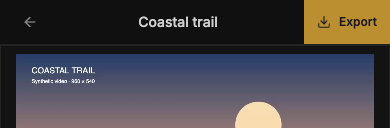
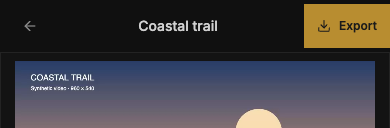
fix(frontend): restore spacing above the mobile editor preview

diff --git a/apps/frontend/src/components/editor/EditorLayout.tsx b/apps/frontend/src/components/editor/EditorLayout.tsx
@@ -61,10 +61,10 @@ export function EditorPreviewPane({
     <section
       data-editor-preview-stage
       className={cn(
-        "relative overflow-hidden border border-editor-border bg-editor-monitor",
+        "relative overflow-hidden border-editor-border bg-editor-monitor",
         variant === "desktop"
-          ? "flex min-h-0 flex-1 items-center justify-center p-2"
-          : "w-full flex-none",
+          ? "flex min-h-0 flex-1 items-center justify-center border p-2"
+          : "w-full flex-none border-x border-b",
         variant === "mobile" &&
           !cropEditing &&
           "max-h-[var(--editor-preview-height,46dvh)]",

diff --git a/apps/frontend/src/components/editor/EditorHeader.tsx b/apps/frontend/src/components/editor/EditorHeader.tsx
@@ -58,7 +58,7 @@ export function EditorHeader({
   );
 
   return (
-    <header className="grid shrink-0 grid-cols-editor-header items-center gap-2 border-b border-editor-border bg-editor-panel pl-2 lg:gap-3 lg:px-3 lg:py-2">
+    <header className="grid shrink-0 grid-cols-editor-header items-center gap-2 border-b border-editor-border bg-editor-panel py-1 pl-2 lg:gap-3 lg:px-3 lg:py-2">
       <div className="flex items-center gap-2">
         <Tooltip>
           <TooltipTrigger
